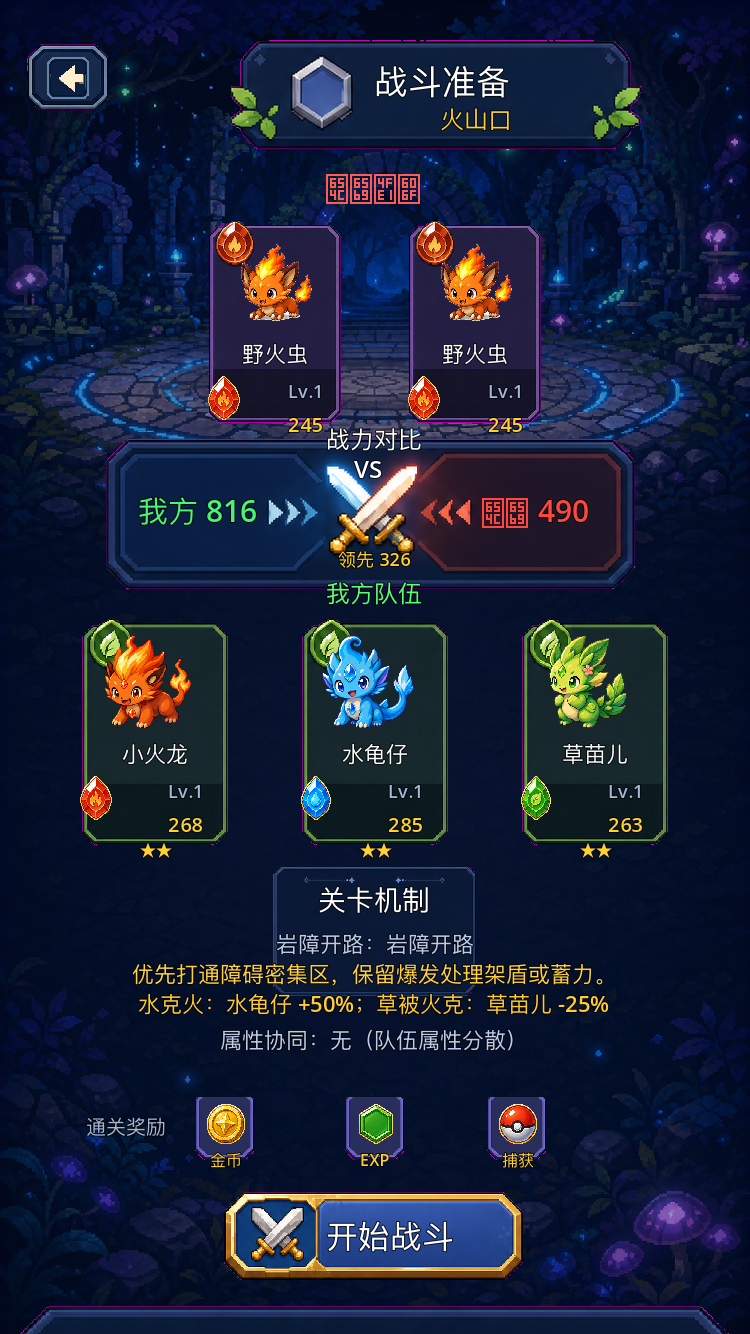
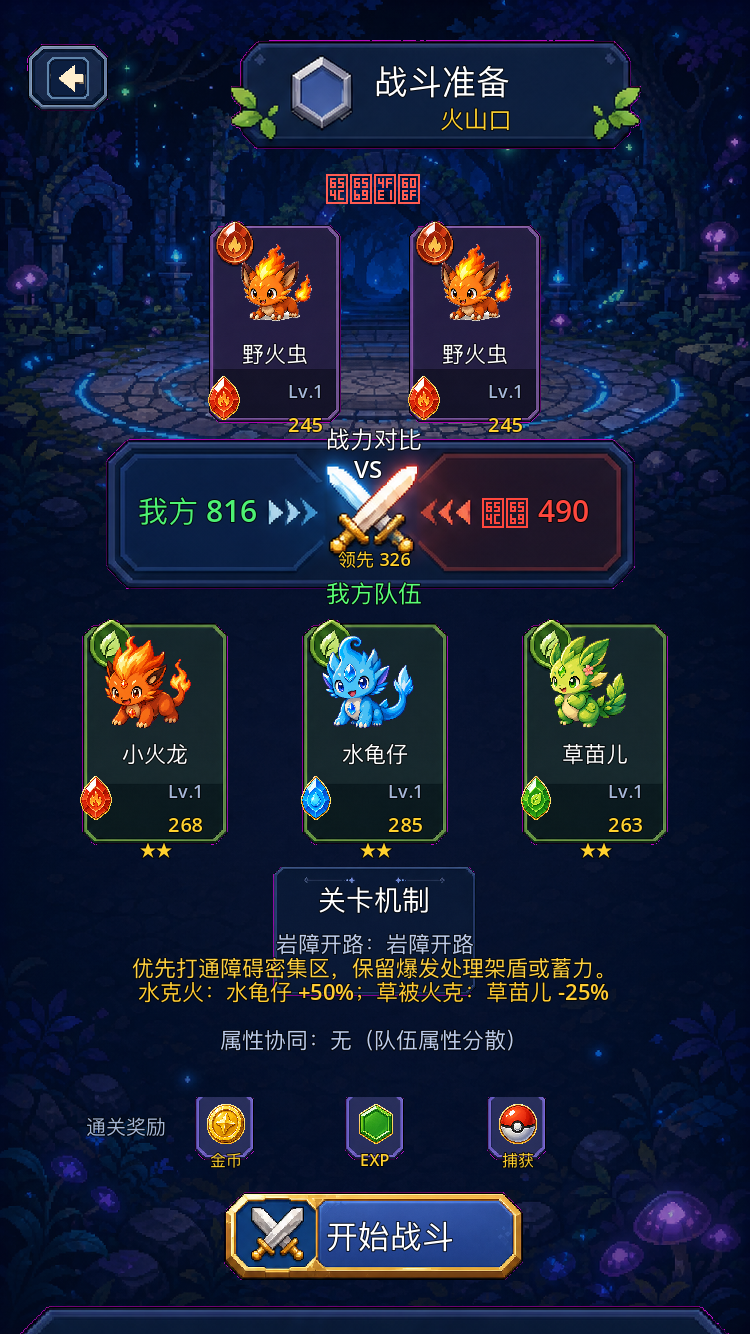
战斗准备页: 克制长句折行并补齐四行断言
来源较多的克制结论在同一句的「；」处折到 Line4，避免准备页横向裁切；
补充 stage_1_4 四来源折行断言，并刷新截图与证据。

Changed region(s): [[0.184, 0.7069, 0.828, 0.7684]]

diff --git a/docs/evidence/prepare_matchup/README.md b/docs/evidence/prepare_matchup/README.md
@@ -1,7 +1,8 @@
 # 战斗准备页：属性克制分析
 
 准备页原来在无章节机制提示时回落到「属性无明显克制关系」。现在改为读取现有克制倍率，
-按敌方属性 × 每个上阵伙伴属性生成一句克制结论，并接在准备页「关卡机制」提示的第三行。
+按敌方属性 × 每个上阵伙伴属性生成一句克制结论，并接在准备页「关卡机制」提示的第三行；
+来源较多时同一句在「；」处折到第四行。
 
 ## 口径
 
@@ -28,7 +29,8 @@
 
 `src/ui/scene/scene_battle_prepare_gui.gd`、`src/ui/scenes/battle_prepare.tscn`
 
-- 「关卡机制」面板增加第三行 `MechanicPanel/Line3` 显示克制结论；全中性时用弱化颜色显示
+- 「关卡机制」面板增加第三行 `MechanicPanel/Line3` 显示克制结论；来源较多时在同一句的
+  「；」处折到第四行 `MechanicPanel/Line4`，避免横向裁切。全中性时用弱化颜色显示
   「属性无明显克制关系」，有强 / 弱来源时用提示色显示。
 
 ## 截图
@@ -75,9 +77,10 @@ MATCH3_SAVE_PATH=/tmp/prepare_after_clear.cfg \
 - 对每组单独渲染准备页文案，断言强 / 弱 / 中性与 `MonsterDb.get_element_multiplier`
   的倍率一致；
 - 强来源必须显示 `+X%`，弱来源必须显示 `-X%`，中性来源不得写入文案；
-- 再以真实 `battle_prepare.tscn` 校验 `MechanicPanel/Line1`、`Line2`、`Line3`：
-  关卡机制与关卡提示保持原样，`Line3` 显示克制结论；全中性时 `Line3` 显示
-  「属性无明显克制关系」。
+- 再以真实 `battle_prepare.tscn` 校验 `MechanicPanel/Line1`、`Line2`、`Line3`、
+  `Line4`：关卡机制与关卡提示保持原样，克制结论写在 `Line3`；两来源不进 `Line4`，
+  四来源长句在「；」处折到 `Line3 + Line4`；全中性时 `Line3` 显示
+  「属性无明显克制关系」且 `Line4` 为空。
 
 原始输出：[test_output.txt](test_output.txt)
 
